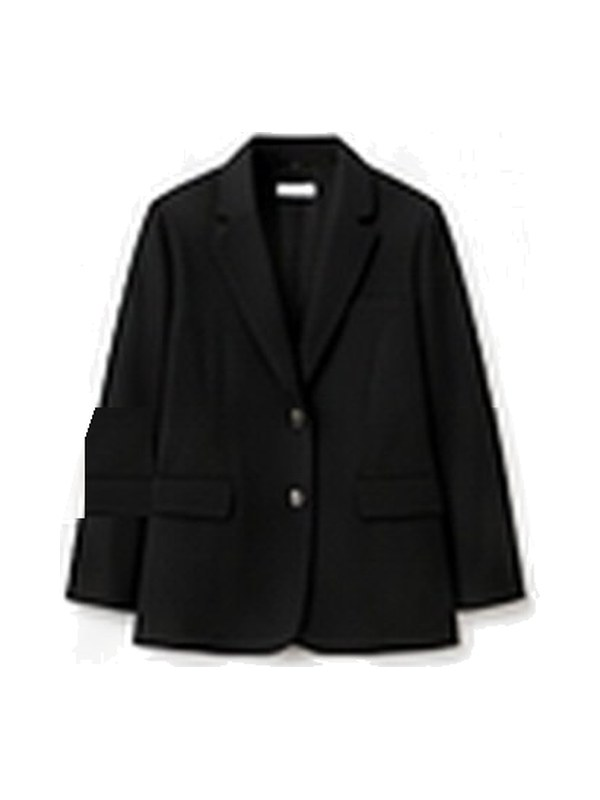
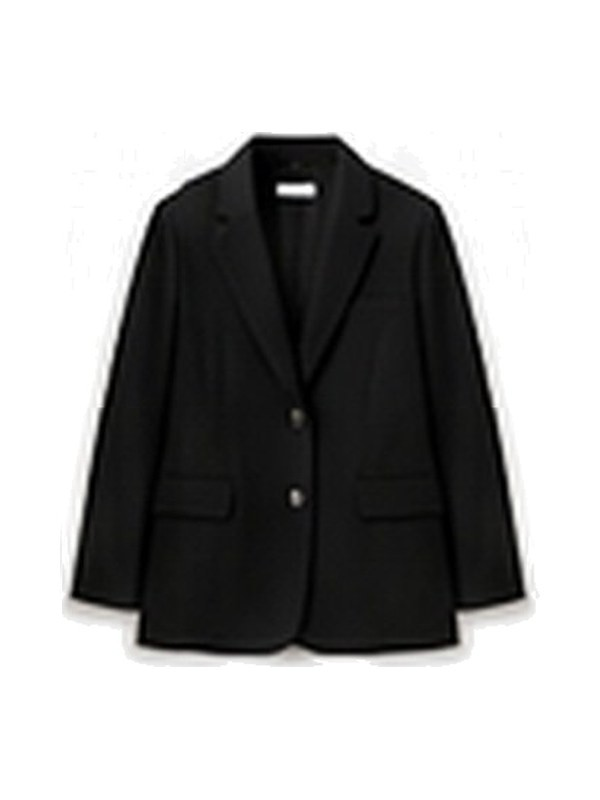
Fix patched product photos, dark-theme badges and payment copy
Repair the left sleeves of c3, c5 and k4. Keep the bought/asked
watch badges and the match pill on photos readable in dark theme.
Say "approve" instead of "pay" in the remaining landing copy.

diff --git a/src/styles/app.css b/src/styles/app.css
@@ -119,6 +119,10 @@ fieldset.plain { border: 0; padding: 0; margin: 0; min-width: 0; }
 .pill.high { background: var(--ok-soft); color: var(--ok); }
 .pill.medium { background: var(--wait-soft); color: var(--warn); }
 .pill.low { background: var(--danger-soft); color: var(--danger); }
+/* 사진 위 배지: 단계 색은 반투명이라 흰 사진 위에서 글자가 사라진다. 단색 면 위에 단계 색을 겹친다 */
+.sw .pill.high { background: linear-gradient(var(--ok-soft), var(--ok-soft)) var(--surface); }
+.sw .pill.medium { background: linear-gradient(var(--wait-soft), var(--wait-soft)) var(--surface); }
+.sw .pill.low { background: linear-gradient(var(--danger-soft), var(--danger-soft)) var(--surface); }
 /* ---- buttons ---- */
 .btn { display: inline-flex; align-items: center; justify-content: center; gap: var(--sp-2); min-height: 42px; border-radius: var(--r-pill); border: 0; box-shadow: inset 0 0 0 1px var(--line-strong); background: transparent; padding: 0 var(--sp-5); font-weight: var(--w-semi); font-size: var(--t-base); letter-spacing: var(--tr-ui); transition: background var(--dur-fast) var(--ease), transform var(--dur-fast) var(--ease), box-shadow var(--dur-fast) var(--ease); }
 .btn:hover:not(:disabled) { background: var(--hover); }
@@ -1146,8 +1150,8 @@ button.pb-row:focus-visible { outline: 2px solid var(--brand); }
 .wl-t b { font-size: var(--t-sm); white-space: nowrap; overflow: hidden; text-overflow: ellipsis; }
 .wl-c { font-size: var(--t-xs); color: var(--ink-2); font-variant-numeric: tabular-nums; }
 .wl-st { padding: var(--sp-1) var(--sp-2); border-radius: var(--r-pill); font-size: var(--t-2xs); font-weight: var(--w-bold); white-space: nowrap; color: var(--ink-2); box-shadow: inset 0 0 0 1px var(--line-strong); }
-.st-bought .wl-st { background: var(--ok); color: var(--white); box-shadow: none; }
-.st-asked .wl-st { background: var(--warn); color: var(--white); box-shadow: none; }
+.st-bought .wl-st { background: var(--ok); color: var(--bg); box-shadow: none; }
+.st-asked .wl-st { background: var(--warn); color: var(--bg); box-shadow: none; }
 .wl-trail { width: 100%; height: 48px; overflow: visible; }
 .wl-trail polyline { fill: none; stroke: var(--brand); stroke-width: 2; vector-effect: non-scaling-stroke; stroke-linejoin: round; }
 .wl-target { stroke: var(--ink-3); stroke-width: 1; stroke-dasharray: 4 4; vector-effect: non-scaling-stroke; }

diff --git a/src/ui/landCopy.ts b/src/ui/landCopy.ts
@@ -108,7 +108,7 @@ export const LAND = {
     { t: { ko: '요청', en: 'Ask' }, d: { ko: '찾을 걸 말해요', en: 'Say what you want' } },
     { t: { ko: '미리보기', en: 'Preview' }, d: { ko: '담기 전에 계획부터 보여줘요', en: 'The plan comes before the action' } },
     { t: { ko: '승인', en: 'Approve' }, d: { ko: '좋다고 하면 담고, 아니면 멈춰요', en: 'Approve and it adds. Otherwise it stops' } },
-    { t: { ko: '결제 전', en: 'Before payment' }, d: { ko: '결제는 내가 해요', en: 'You pay yourself' } },
+    { t: { ko: '결제 전', en: 'Before payment' }, d: { ko: '결제는 내가 승인해요', en: 'Every payment waits for your OK' } },
   ] satisfies { t: L; d: L }[],
 
   dialTitle: { ko: '얼마나 맡길지는\n내가 정해요.', en: 'You decide\nhow much to hand off.' },
@@ -120,7 +120,7 @@ export const LAND = {
     { k: 'add', t: { ko: '담기 전에 확인', en: 'Check before adding' } },
     { k: 'tie', t: { ko: '애매하면 물어봄', en: 'Asks on a close call' } },
     { k: 'limit', t: { ko: '한도를 넘으면 미리 알림', en: 'Warns over your limit' } },
-    { k: 'pay', t: { ko: '결제는 내가', en: 'You pay yourself' } },
+    { k: 'pay', t: { ko: '결제는 내가 승인', en: 'You approve every payment' } },
   ] satisfies { k: 'plan' | 'add' | 'tie' | 'limit' | 'pay'; t: L }[],
   cmpYes: { ko: '해당', en: 'Yes' },
   cmpNo: { ko: '해당 없음', en: 'No' },
@@ -216,7 +216,7 @@ export const SETUP = {
   dialDesc: {
     always: { ko: '할 일과 담기를 모두 내가 확인해요', en: 'You approve the plan and every add' },
     'cart-only': { ko: '할 일은 바로 진행하고, 담기 전에 물어봐요', en: 'Runs the plan, asks before adding' },
-    auto: { ko: '담기까지 알아서 해요. 결제는 내가 해요', en: 'Adds on its own. You still pay' },
+    auto: { ko: '담기까지 알아서 해요. 결제는 내가 승인해요', en: 'Adds on its own. You still approve payment' },
   } satisfies Record<Dial, L>,
   limit: { ko: '결제 한도', en: 'Payment limit' },
   limitNote: { ko: '결제 금액이 한도를 넘으면 결제 전에 알려 드려요.', en: 'If the total goes over this, you are told before paying.' },
